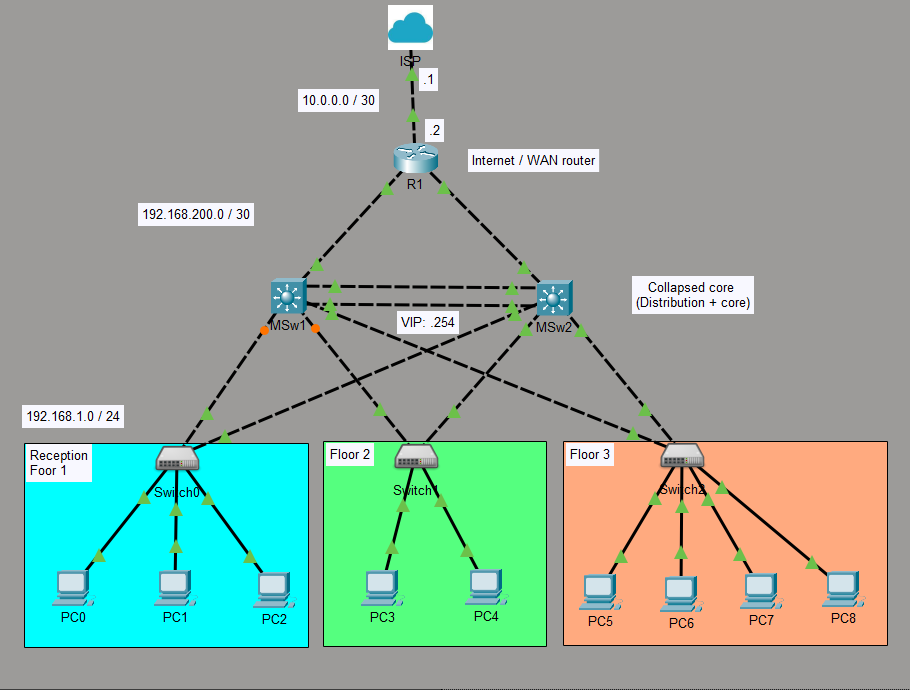
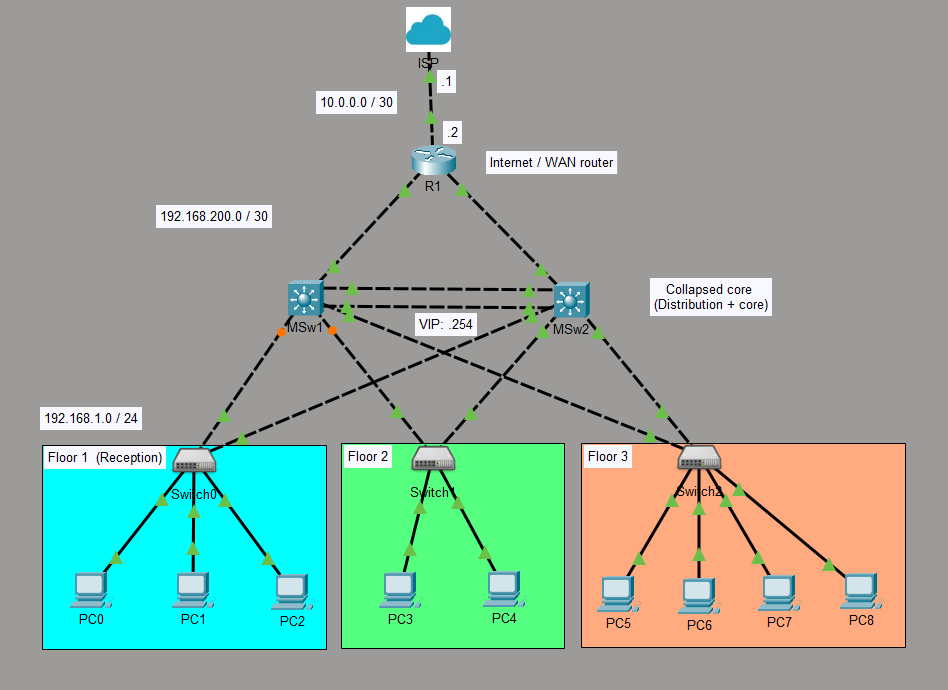
Initial commit - added Packet Tracer labs

diff --git a/packet-tracer/project 1 - VLANs & Inter-VLAN Routing/README.md b/packet-tracer/project 1 - VLANs & Inter-VLAN Routing/README.md
@@ -151,7 +151,6 @@ Linkedin: *[Hillary](https://www.linkedin.com/in/hillary-mapondera-7825b91a1/)*
 vlan-intervlan-routing/
     ├── Network-topology.png
     ├── project description.md
-    ├── vlans & Intervlan routing.pkt   
-    |   
+    ├── vlans & Intervlan routing.pkt     
     └── README.md  
 ```